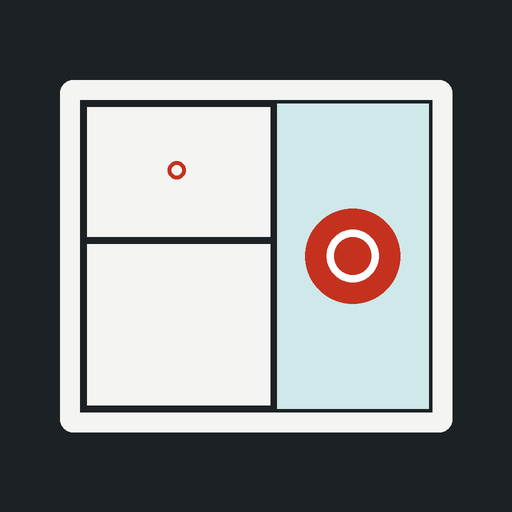
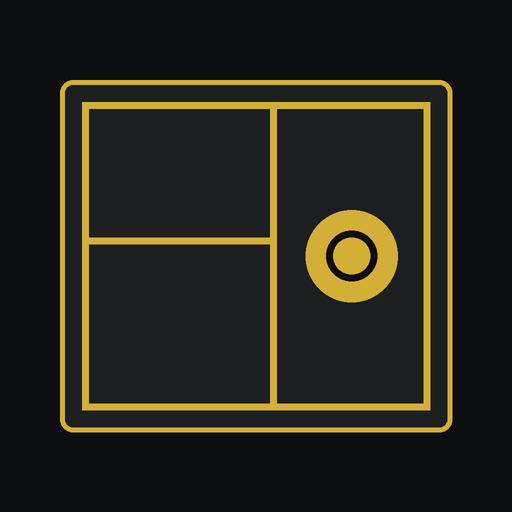
Add files via upload
Changed theme, added corner adjustment to auto detect.

diff --git a/index.html b/index.html
@@ -5,10 +5,9 @@
 <meta name="viewport" content="width=device-width,initial-scale=1,viewport-fit=cover">
 <meta name="apple-mobile-web-app-capable" content="yes">
 <meta name="mobile-web-app-capable" content="yes">
-<meta name="apple-mobile-web-app-status-bar-style" content="default">
+<meta name="apple-mobile-web-app-status-bar-style" content="black">
 <meta name="apple-mobile-web-app-title" content="Sensor Layout">
-<meta name="theme-color" content="#e8ebea" media="(prefers-color-scheme: light)">
-<meta name="theme-color" content="#111517" media="(prefers-color-scheme: dark)">
+<meta name="theme-color" content="#0d0e0f">
 <link rel="manifest" href="manifest.webmanifest">
 <link rel="apple-touch-icon" href="icons/icon-180.png">
 <link rel="icon" type="image/png" href="icons/icon-192.png">
@@ -16,24 +15,14 @@
 <style>
 /* Layout: one-screen drafting workspace. Tool rail | plan sheet on a mat | title-block inspector. */
 :root{
-  --bg:#e8ebea; --panel:#f7f8f6; --raise:#ffffff; --ink:#1b2124; --ink2:#59646a; --line:#cdd3d2; --mat:#d6dbda;
-  --accent:#c4321f; --accent-ink:#ffffff; --accent-soft:rgba(196,50,31,.10);
-  --sel:#1d63c9; --ok:#2d7a4b; --warn:#a05f00; --warn-soft:rgba(160,95,0,.12);
+  /* Black / gold: black mat behind the plan, dark grey chrome, gold controls */
+  --bg:#0d0e0f; --panel:#1c1e20; --raise:#272a2d; --ink:#f2efe6; --ink2:#a9a497; --line:#34373b; --mat:#000000;
+  --accent:#d4af37; --accent-ink:#151515; --accent-soft:rgba(212,175,55,.15);
+  --sel:#d4af37; --ok:#6cc08d; --warn:#ec8d3c; --warn-soft:rgba(236,141,60,.14);
   --f-label:"Avenir Next Condensed","Arial Narrow","Roboto Condensed",Arial,sans-serif;
   --f-body:system-ui,-apple-system,"Segoe UI",Roboto,sans-serif;
   --f-num:ui-monospace,"SF Mono",Menlo,Consolas,monospace;
-}
-@media (prefers-color-scheme: dark){
-  :root:not([data-theme="light"]){
-    --bg:#111517; --panel:#192023; --raise:#212a2e; --ink:#e5eaeb; --ink2:#97a3a9; --line:#2d373b; --mat:#0b0e0f;
-    --accent:#ff5d45; --accent-ink:#1c0703; --accent-soft:rgba(255,93,69,.15);
-    --sel:#6aa8ff; --ok:#5cc28a; --warn:#e3a33b; --warn-soft:rgba(227,163,59,.14); color-scheme:dark;
-  }
-}
-:root[data-theme="dark"]{
-  --bg:#111517; --panel:#192023; --raise:#212a2e; --ink:#e5eaeb; --ink2:#97a3a9; --line:#2d373b; --mat:#0b0e0f;
-  --accent:#ff5d45; --accent-ink:#1c0703; --accent-soft:rgba(255,93,69,.15);
-  --sel:#6aa8ff; --ok:#5cc28a; --warn:#e3a33b; --warn-soft:rgba(227,163,59,.14); color-scheme:dark;
+  color-scheme:dark;
 }
 html{padding-top:env(safe-area-inset-top,0px);padding-bottom:env(safe-area-inset-bottom,0px);-webkit-text-size-adjust:100%}
 html,body{height:100%}
@@ -57,7 +46,7 @@ button{cursor:pointer;touch-action:manipulation}
 .floors::-webkit-scrollbar{display:none}
 .ftab{flex:none;display:flex;align-items:center;gap:8px;border:1px solid var(--line);background:var(--panel);border-radius:8px;padding:7px 12px;font-family:var(--f-label);font-weight:600;font-size:15px;letter-spacing:.02em}
 .ftab .c{font-family:var(--f-num);font-size:12.5px;color:var(--ink2)}
-.ftab[aria-current="true"]{border-color:var(--ink);background:var(--raise);box-shadow:inset 0 -2px 0 var(--accent)}
+.ftab[aria-current="true"]{border-color:var(--accent);background:var(--raise);box-shadow:inset 0 -2px 0 var(--accent)}
 .ftab.add{color:var(--ink2);border-style:dashed}
 .top-r{display:flex;align-items:center;gap:12px;flex:none}
 .save{font-family:var(--f-label);font-size:12.5px;letter-spacing:.06em;text-transform:uppercase;color:var(--ink2);white-space:nowrap}
@@ -67,21 +56,23 @@ button{cursor:pointer;touch-action:manipulation}
 .ibtn{width:44px;height:44px;display:grid;place-items:center;border:1px solid var(--line);background:var(--panel);border-radius:10px}
 .ibtn svg{width:22px;height:22px}
 
-.banner{display:flex;align-items:center;gap:12px;flex-wrap:wrap;background:var(--warn-soft);border:1px solid color-mix(in srgb,var(--warn) 35%,transparent);color:var(--ink);border-radius:10px;padding:8px 12px;font-size:14px}
-.banner b{font-family:var(--f-label);letter-spacing:.06em;text-transform:uppercase;font-size:13px;color:var(--warn)}
+.banner{display:flex;align-items:center;gap:12px;flex-wrap:wrap;background:var(--accent-soft);border:1px solid color-mix(in srgb,var(--accent) 40%,transparent);color:var(--ink);border-radius:10px;padding:8px 12px;font-size:14px}
+.banner b{font-family:var(--f-label);letter-spacing:.06em;text-transform:uppercase;font-size:13px;color:var(--accent)}
 
 .work{flex:1;min-height:0;display:grid;grid-template-columns:minmax(0,1fr) 330px;gap:10px}
 .rail{display:flex;align-items:center;gap:4px;padding:4px;background:var(--panel);border:1px solid var(--line);border-radius:12px;overflow-x:auto;scrollbar-width:none;flex:none}
 .rail::-webkit-scrollbar{display:none}
 .tool{flex:none;display:flex;align-items:center;justify-content:center;gap:7px;min-height:44px;border:1px solid transparent;background:none;border-radius:9px;color:var(--ink2);padding:6px 12px}
-.tool svg{width:22px;height:22px;flex:none}
+.tool svg{width:22px;height:22px;flex:none;color:var(--accent)}
 .tool span{font-family:var(--f-label);font-weight:600;font-size:13px;letter-spacing:.07em;text-transform:uppercase}
 .tool[aria-pressed="true"]{background:var(--raise);border-color:var(--line);color:var(--ink);box-shadow:inset 0 -3px 0 var(--accent)}
 .tool:disabled{opacity:.35;cursor:default}
+.tool:disabled svg{color:var(--ink2)}
+.ibtn svg{color:var(--accent)}
 .rail .sep{flex:none;width:1px;align-self:stretch;background:var(--line);margin:6px 6px}
 .rail .grow{flex:1 0 8px}
 
-.stage{position:relative;min-width:0;min-height:0;border:1px solid var(--line);border-radius:12px;overflow:hidden;background:var(--mat);touch-action:none;-webkit-user-select:none;user-select:none;-webkit-touch-callout:none}
+.stage{position:relative;min-width:0;min-height:0;border:1px solid #2a2c2e;border-radius:12px;overflow:hidden;background:var(--mat);touch-action:none;-webkit-user-select:none;user-select:none;-webkit-touch-callout:none}
 #cv{position:absolute;inset:0;width:100%;height:100%;display:block;touch-action:none}
 .hint{position:absolute;left:10px;top:10px;right:10px;pointer-events:none;display:flex}
 .hint span{background:color-mix(in srgb,var(--panel) 92%,transparent);border:1px solid var(--line);border-radius:8px;padding:6px 10px;font-size:13.5px;color:var(--ink);max-width:100%;box-shadow:0 2px 10px rgba(0,0,0,.08)}
@@ -99,14 +90,14 @@ button{cursor:pointer;touch-action:manipulation}
 .chips{display:flex;flex-wrap:wrap;gap:6px}
 .chip{display:inline-flex;align-items:center;gap:6px;border:1px solid var(--line);background:var(--raise);border-radius:999px;padding:6px 11px;font-size:14px}
 .chip i{width:10px;height:10px;border-radius:3px;display:inline-block;flex:none}
-.chip[aria-pressed="true"]{border-color:var(--ink);box-shadow:inset 0 0 0 1px var(--ink)}
+.chip[aria-pressed="true"]{border-color:var(--accent);box-shadow:inset 0 0 0 1px var(--accent)}
 .tag{display:inline-block;font-family:var(--f-label);font-weight:600;font-size:11.5px;letter-spacing:.08em;text-transform:uppercase;border-radius:4px;padding:1px 6px;background:var(--accent-soft);color:var(--accent)}
 .tag.neutral{background:color-mix(in srgb,var(--ink2) 14%,transparent);color:var(--ink2)}
 .tag.warn{background:var(--warn-soft);color:var(--warn)}
 .btn{border:1px solid var(--line);background:var(--raise);border-radius:9px;padding:10px 14px;font-weight:600;font-size:15px;text-align:center}
 .btn.primary{background:var(--accent);border-color:var(--accent);color:var(--accent-ink)}
-.btn.danger{color:var(--accent)}
-.btn.danger.armed{background:var(--accent);color:var(--accent-ink);border-color:var(--accent)}
+.btn.danger{color:#ff6b5a}
+.btn.danger.armed{background:#d9412f;color:#fff;border-color:#d9412f}
 .btn:disabled{opacity:.45;cursor:default}
 .btns{display:flex;flex-wrap:wrap;gap:8px}
 .btns .btn{flex:1 1 auto}
@@ -120,8 +111,8 @@ input[type=range]{width:100%;accent-color:var(--accent)}
 .toggle input{width:22px;height:22px;accent-color:var(--accent)}
 
 /* title block: drawing-sheet convention */
-.tb{border:1.5px solid var(--ink);border-radius:2px;display:grid;grid-template-columns:1fr 1fr;font-size:14px}
-.tb>div{padding:6px 8px;border-right:1px solid var(--ink);border-bottom:1px solid var(--ink);display:flex;flex-direction:column;gap:2px;min-width:0}
+.tb{border:1.5px solid var(--accent);border-radius:2px;display:grid;grid-template-columns:1fr 1fr;font-size:14px}
+.tb>div{padding:6px 8px;border-right:1px solid color-mix(in srgb,var(--accent) 55%,transparent);border-bottom:1px solid color-mix(in srgb,var(--accent) 55%,transparent);display:flex;flex-direction:column;gap:2px;min-width:0}
 .tb>div:nth-child(2n){border-right:0}
 .tb>.w{grid-column:1/-1;border-right:0}
 .tb>div:nth-last-child(-n+2){border-bottom:0}
@@ -148,7 +139,7 @@ input[type=range]{width:100%;accent-color:var(--accent)}
 .swatch{width:40px;height:40px;border-radius:8px;border:1px solid var(--line)}
 .preview{border:1px solid var(--line);border-radius:8px;background:#fff;max-height:220px;width:100%;object-fit:contain}
 .drop{border:1.5px dashed var(--line);border-radius:10px;padding:16px;text-align:center;display:flex;flex-direction:column;gap:8px;align-items:center}
-.toast{position:fixed;left:50%;bottom:max(18px,env(safe-area-inset-bottom,0px));transform:translateX(-50%);z-index:60;background:var(--ink);color:var(--bg);padding:10px 16px;border-radius:10px;font-size:14.5px;max-width:min(520px,calc(100% - 32px));box-shadow:0 8px 24px rgba(0,0,0,.25)}
+.toast{position:fixed;left:50%;bottom:max(18px,env(safe-area-inset-bottom,0px));transform:translateX(-50%);z-index:60;background:var(--raise);color:var(--ink);border:1px solid var(--accent);padding:10px 16px;border-radius:10px;font-size:14.5px;max-width:min(520px,calc(100% - 32px));box-shadow:0 8px 24px rgba(0,0,0,.25)}
 
 .updbar{position:fixed;z-index:70;left:50%;transform:translateX(-50%);top:max(12px,env(safe-area-inset-top,0px));display:flex;align-items:center;gap:12px;background:var(--panel);border:1px solid var(--line);border-radius:12px;padding:8px 8px 8px 14px;box-shadow:0 10px 30px rgba(0,0,0,.2);max-width:calc(100% - 32px)}
 @media (max-width:1050px){ .work{grid-template-columns:minmax(0,1fr) 290px} .tool{flex-direction:column;gap:2px;padding:5px 6px;min-width:56px;min-height:52px} .tool span{font-size:11px} }
@@ -263,7 +254,7 @@ const DEFAULT_CLASSES = [
   {id:'other', name:'Other', mode:'general', color:'#4f6470'},
 ];
 const MODE_LABEL = {general:'Cig / THC', vape:'Vape', none:'No sensors'};
-const SENSOR_RED = '#c4321f';
+const SENSOR_RED = '#c4321f', GOLD = '#d4af37', GOLD_DK = '#8a6a0c';
 const PLACEHOLDER = {cigCov:1000, vapeCov:500};
 
 function newProject(name, siteType) {
@@ -447,7 +438,7 @@ function draw() {
   ctx.restore();
 }
 function drawScene(c, F, px, o) {
-  c.save(); c.shadowColor = 'rgba(0,0,0,.28)'; c.shadowBlur = 16 * px * (o.live ? 1 : 0); c.fillStyle = '#ffffff'; c.fillRect(0, 0, F.imgW, F.imgH); c.restore();
+  c.save(); c.fillStyle = '#ffffff'; c.fillRect(0, 0, F.imgW, F.imgH); if (o.live) { c.strokeStyle = 'rgba(212,175,55,.35)'; c.lineWidth = 1 * px; c.strokeRect(0, 0, F.imgW, F.imgH); } c.restore();
   const img = S.imgs.get(F.id);
   if (img) { c.imageSmoothingEnabled = true; c.imageSmoothingQuality = 'high'; c.drawImage(img, 0, 0, F.imgW, F.imgH); }
   const selRoom = o.sel && o.sel.type === 'room' ? o.sel.id : (o.sel && o.sel.type === 'auto' ? o.sel.roomId : null);
@@ -456,6 +447,7 @@ function drawScene(c, F, px, o) {
     const cl = clsOf(r.cls);
     c.fillStyle = hexA(cl.color, r.id === selRoom ? .24 : .15); c.fillRect(r.x, r.y, r.w, r.h);
     c.lineWidth = (r.id === selRoom ? 3 : 2) * px; c.strokeStyle = cl.color; c.setLineDash([]); c.strokeRect(r.x, r.y, r.w, r.h);
+    if (r.id === selRoom && o.live) { c.lineWidth = 1.5 * px; c.strokeStyle = GOLD_DK; c.setLineDash([6 * px, 4 * px]); c.strokeRect(r.x - 4 * px, r.y - 4 * px, r.w + 8 * px, r.h + 8 * px); c.setLineDash([]); }
     if (S.showCells && r.auto) {
       const g = grid(r, F);
       if (g.count > 1) {
@@ -492,16 +484,17 @@ function drawScene(c, F, px, o) {
   // selection handles
   if (o.sel && o.sel.type === 'room') {
     const r = F.rooms.find(x => x.id === o.sel.id);
-    if (r) for (const [hx, hy] of [[r.x, r.y], [r.x + r.w, r.y], [r.x, r.y + r.h], [r.x + r.w, r.y + r.h]]) {
-      const s = 7 * px; c.fillStyle = '#fff'; c.strokeStyle = T.sel; c.lineWidth = 2 * px; c.setLineDash([]);
+    if (r) for (const [hx, hy] of [[r.x, r.y], [r.x + r.w, r.y], [r.x, r.y + r.h], [r.x + r.w, r.y + r.h], [r.x + r.w / 2, r.y], [r.x + r.w / 2, r.y + r.h], [r.x, r.y + r.h / 2], [r.x + r.w, r.y + r.h / 2]]) {
+      const s = (hx === r.x || hx === r.x + r.w) && (hy === r.y || hy === r.y + r.h) ? 9 * px : 7 * px;
+      c.fillStyle = GOLD; c.strokeStyle = '#111'; c.lineWidth = 2 * px; c.setLineDash([]);
       c.fillRect(hx - s, hy - s, 2 * s, 2 * s); c.strokeRect(hx - s, hy - s, 2 * s, 2 * s);
     }
   }
   // drafts
   if (G && G.type === 'draw' && G.moved) {
-    const r = norm(G.a, G.b); c.setLineDash([6 * px, 4 * px]); c.lineWidth = 2 * px; c.strokeStyle = T.sel; c.fillStyle = hexA('#1d63c9', .08);
+    const r = norm(G.a, G.b); c.setLineDash([6 * px, 4 * px]); c.lineWidth = 2 * px; c.strokeStyle = GOLD_DK; c.fillStyle = hexA(GOLD, .12);
     c.fillRect(r.x, r.y, r.w, r.h); c.strokeRect(r.x, r.y, r.w, r.h); c.setLineDash([]);
-    if (F.pxPerFt) { c.font = `600 ${12 * px}px ui-monospace,"SF Mono",Menlo,monospace`; halo(c, `${fmtFt(r.w / F.pxPerFt)} × ${fmtFt(r.h / F.pxPerFt)}`, r.x + 4 * px, r.y + r.h + 4 * px, px, '#1d63c9'); }
+    if (F.pxPerFt) { c.font = `600 ${12 * px}px ui-monospace,"SF Mono",Menlo,monospace`; halo(c, `${fmtFt(r.w / F.pxPerFt)} × ${fmtFt(r.h / F.pxPerFt)}`, r.x + 4 * px, r.y + r.h + 4 * px, px, GOLD_DK); }
   }
   const line = (G && G.type === 'scale' && G.moved) ? {a: G.a, b: G.b} : (S.pendingScale || (S.tool === 'scale' && F.scaleLine ? F.scaleLine : null));
   if (line) {
@@ -515,9 +508,9 @@ function drawScene(c, F, px, o) {
 function halo(c, text, x, y, px, color) { c.lineJoin = 'round'; c.lineWidth = 3.5 * px; c.strokeStyle = 'rgba(255,255,255,.92)'; c.strokeText(text, x, y); c.fillStyle = color; c.fillText(text, x, y); }
 function sensorGlyph(c, x, y, letter, filled, selected, px) {
   const r = 11 * px;
-  if (selected) { c.beginPath(); c.arc(x, y, r + 5 * px, 0, Math.PI * 2); c.fillStyle = hexA('#1d63c9', .22); c.fill(); }
+  if (selected) { c.beginPath(); c.arc(x, y, r + 6 * px, 0, Math.PI * 2); c.fillStyle = hexA(GOLD, .55); c.fill(); }
   c.beginPath(); c.arc(x, y, r, 0, Math.PI * 2); c.fillStyle = filled ? SENSOR_RED : '#ffffff'; c.fill();
-  c.lineWidth = 2.2 * px; c.strokeStyle = selected ? '#1d63c9' : SENSOR_RED; c.setLineDash([]); c.stroke();
+  c.lineWidth = 2.2 * px; c.strokeStyle = selected ? '#111' : SENSOR_RED; c.setLineDash([]); c.stroke();
   c.fillStyle = filled ? '#ffffff' : SENSOR_RED; c.font = `700 ${12.5 * px}px "Avenir Next Condensed","Arial Narrow",Arial,sans-serif`;
   c.textAlign = 'center'; c.textBaseline = 'middle'; c.fillText(letter, x, y + .5 * px); c.textAlign = 'left'; c.textBaseline = 'top';
 }
@@ -535,9 +528,11 @@ function hitSensor(ip) {
 }
 function hitHandle(ip) {
   if (!S.sel || S.sel.type !== 'room') return null; const r = curFloor().rooms.find(x => x.id === S.sel.id); if (!r) return null;
-  const tol = 20 / S.view.k, cs = {nw: [r.x, r.y], ne: [r.x + r.w, r.y], sw: [r.x, r.y + r.h], se: [r.x + r.w, r.y + r.h]};
-  for (const k in cs) if (Math.abs(ip.x - cs[k][0]) < tol && Math.abs(ip.y - cs[k][1]) < tol) return {corner: k, room: r};
-  return null;
+  const tol = 22 / S.view.k, cx = r.x + r.w / 2, cy = r.y + r.h / 2;
+  const hs = {nw: [r.x, r.y], ne: [r.x + r.w, r.y], sw: [r.x, r.y + r.h], se: [r.x + r.w, r.y + r.h], n: [cx, r.y], s: [cx, r.y + r.h], w: [r.x, cy], e: [r.x + r.w, cy]};
+  let best = null, bd = Infinity;
+  for (const k in hs) { const dx = Math.abs(ip.x - hs[k][0]), dy = Math.abs(ip.y - hs[k][1]); if (dx < tol && dy < tol && dx + dy < bd) { bd = dx + dy; best = k; } }
+  return best ? {corner: best, room: r} : null;
 }
 
 /* ---------- gestures ---------- */
@@ -579,7 +574,7 @@ cv.addEventListener('wheel', e => {
 function startGesture(p) {
   const ip = toImg(p), tool = S.tool;
   const base = {start: p, ip, moved: false, pushed: false};
-  if (tool === 'select' || tool === 'room') { const h = hitHandle(ip); if (h) { G = {...base, type: 'resize', ...h, orig: {x: h.room.x, y: h.room.y, w: h.room.w, h: h.room.h}}; return; } }
+  if (tool !== 'scale') { const h = hitHandle(ip); if (h) { G = {...base, type: 'resize', ...h, orig: {x: h.room.x, y: h.room.y, w: h.room.w, h: h.room.h}}; return; } }
   if (tool === 'select' || tool === 'sensor') { const hs = hitSensor(ip); if (hs) { G = {...base, type: 'sensor', hit: hs}; return; } }
   if (tool === 'select') { const r = roomAt(ip); if (r) { G = {...base, type: 'room', room: r, last: ip}; return; } G = {...base, type: 'pan', v0: {...S.view}}; return; }
   if (tool === 'room') { G = {...base, type: 'draw', a: ip, b: ip}; return; }
@@ -727,7 +722,7 @@ function runDetect(ip) {
   rect.x = Math.max(0, rect.x); rect.y = Math.max(0, rect.y); rect.w = Math.min(F.imgW - rect.x, rect.w); rect.h = Math.min(F.imgH - rect.y, rect.h);
   const dup = F.rooms.find(r => iou(r, rect) > .8);
   if (dup) { select({type: 'room', id: dup.id}); return toast('That room is already marked.'); }
-  addRoom(rect); toast('Room outlined. Check the edges, then pick its class.');
+  addRoom(rect); toast('Room outlined. Drag the gold handles to fix any edge, then pick its class.');
 }
 function iou(a, b) { const x1 = Math.max(a.x, b.x), y1 = Math.max(a.y, b.y), x2 = Math.min(a.x + a.w, b.x + b.w), y2 = Math.min(a.y + a.h, b.y + b.h); const i = Math.max(0, x2 - x1) * Math.max(0, y2 - y1); return i / (a.w * a.h + b.w * b.h - i); }
 
@@ -758,7 +753,7 @@ let inspT = 0; function renderInspectorSoon() { clearTimeout(inspT); inspT = set
 const HINTS = {
   select: 'Tap a room or sensor to edit it. Drag empty space to pan; pinch to zoom.',
   room: 'Drag across the plan to draw a room. New rooms take the last class you picked.',
-  detect: 'Tap inside a room. The outline follows the walls around that spot.',
+  detect: 'Tap inside a room to outline it. Drag the gold handles to adjust the last one.',
   sensor: 'Tap to drop a priority sensor. Drag any sensor to move it.',
   scale: 'Drag along a wall or dimension you know, then enter its real length.',
 };
@@ -1247,8 +1242,6 @@ function openDemo() {
 
 /* ---------- theme & boot ---------- */
 readTokens();
-window.matchMedia('(prefers-color-scheme: dark)').addEventListener('change', () => { readTokens(); req(); });
-new MutationObserver(() => { readTokens(); req(); }).observe(document.documentElement, {attributes: true, attributeFilter: ['data-theme']});
 if (document.fonts && document.fonts.ready) document.fonts.ready.then(req);
 setTool('select');
 openDemo();

diff --git a/sw.js b/sw.js
@@ -1,6 +1,6 @@
 /* Sensor Layout Planner — offline cache.
    Bump VERSION on every release so iPads pick up the new files. */
-const VERSION = 'slp-2026-10-16-1';
+const VERSION = 'slp-2026-10-16-2';
 const SHELL = ['./', './index.html', './manifest.webmanifest', './icons/icon-180.png', './icons/icon-192.png', './icons/icon-512.png', './icons/icon-maskable-512.png'];
 // PDF support is fetched once while online and kept for offline use.
 const PDFJS = ['https://cdn.jsdelivr.net/npm/pdfjs-dist@3.11.174/build/pdf.min.js', 'https://cdn.jsdelivr.net/npm/pdfjs-dist@3.11.174/build/pdf.worker.min.js'];
